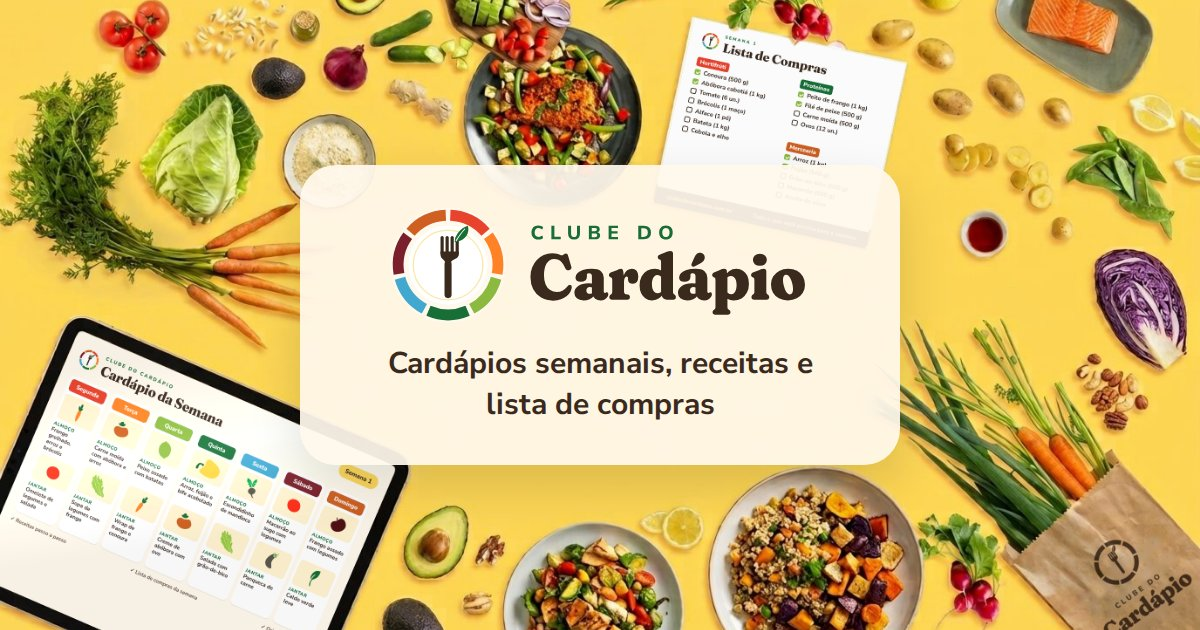
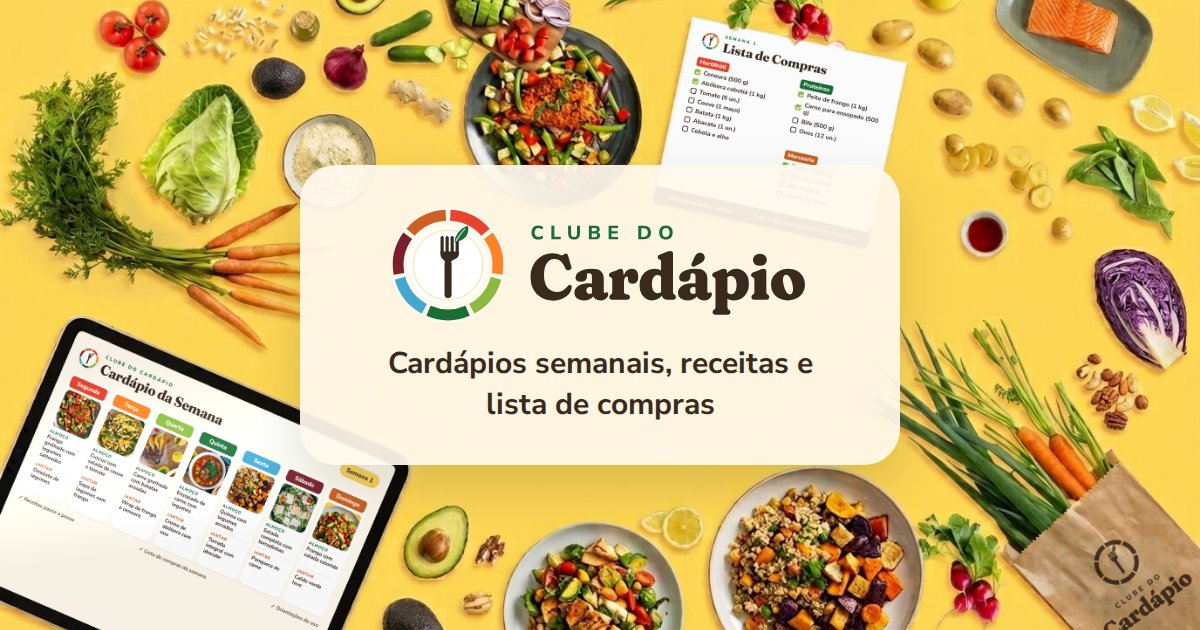
Tablet do HERO com fotos reais de pratos
- Cardápio da semana passa a mostrar uma foto real por dia (almoço),
  com almoço e jantar descritos; os ícones ilustrados foram removidos.
- Lista de compras ajustada aos pratos do novo cardápio.
- HERO, faixas mobile, og-image e modelos de Instagram regenerados.
- Recortes das fotos em images/pratos com a origem de cada uma.

Claude-Session: https://claude.ai/code/session_011dvyRhPNz3FX2TnzhsmVBS

Changed region(s): [[0.0, 0.5429, 0.3083, 1.0], [0.6475, 0.1508, 0.74, 0.2714], [0.5858, 0.1508, 0.6167, 0.2111]]

diff --git a/images/pratos/LEIA-ME.md b/images/pratos/LEIA-ME.md
@@ -1,0 +1,8 @@
+# Fotos de pratos (provisórias)
+
+Recortes quadrados usados no mockup do tablet (`images/mockups/tablet-cardapio-semana.png`).
+
+- `ter-cuscuz-couve`, `qua-carne-batatas`, `qui-ensopado`, `sab-salada-torradinhas`: fotos do Unsplash enviadas pela equipe (licença Unsplash: uso comercial livre, sem necessidade de crédito).
+- `seg-frango-legumes`, `sex-quinoa-legumes`, `dom-frango-salada`: recortes da própria imagem do HERO.
+
+Substituir por fotos reais das preparações da Rita quando estiverem disponíveis (item 18 do Memorial).
